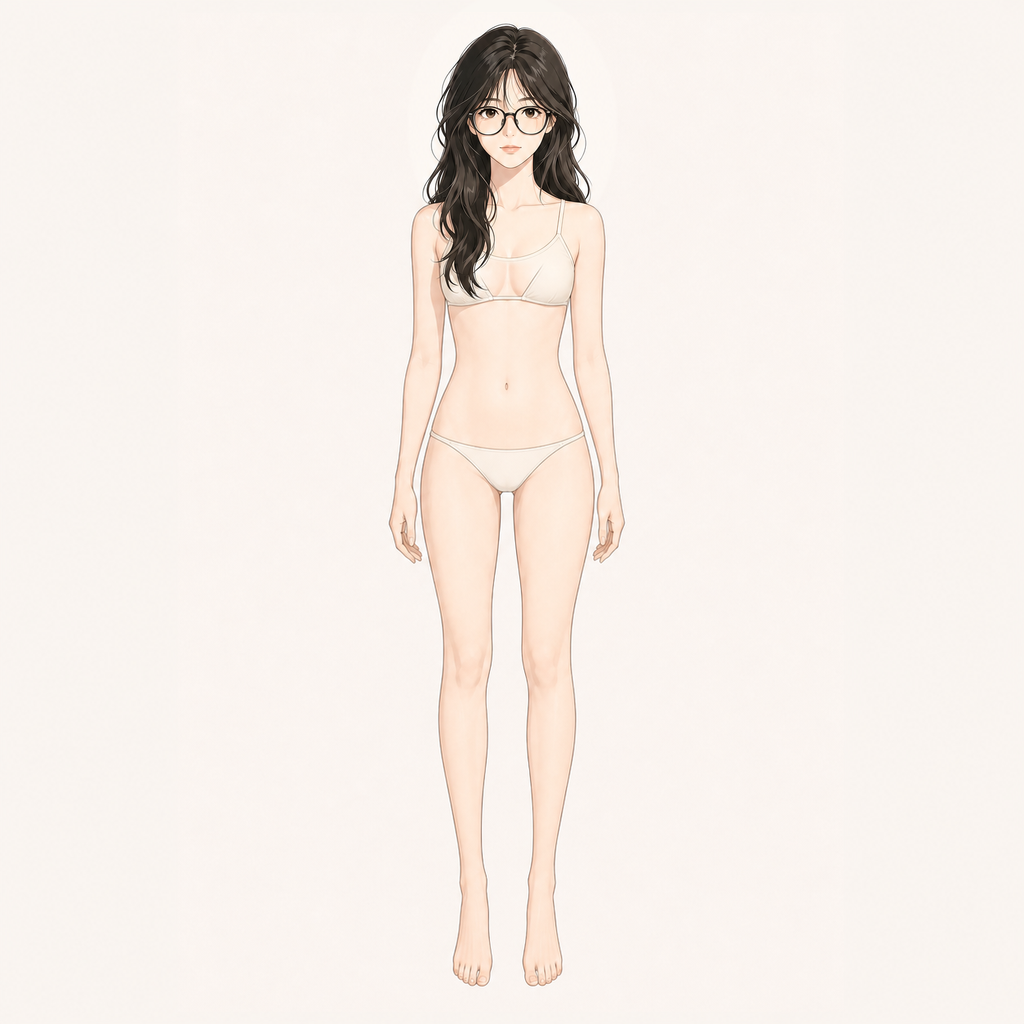
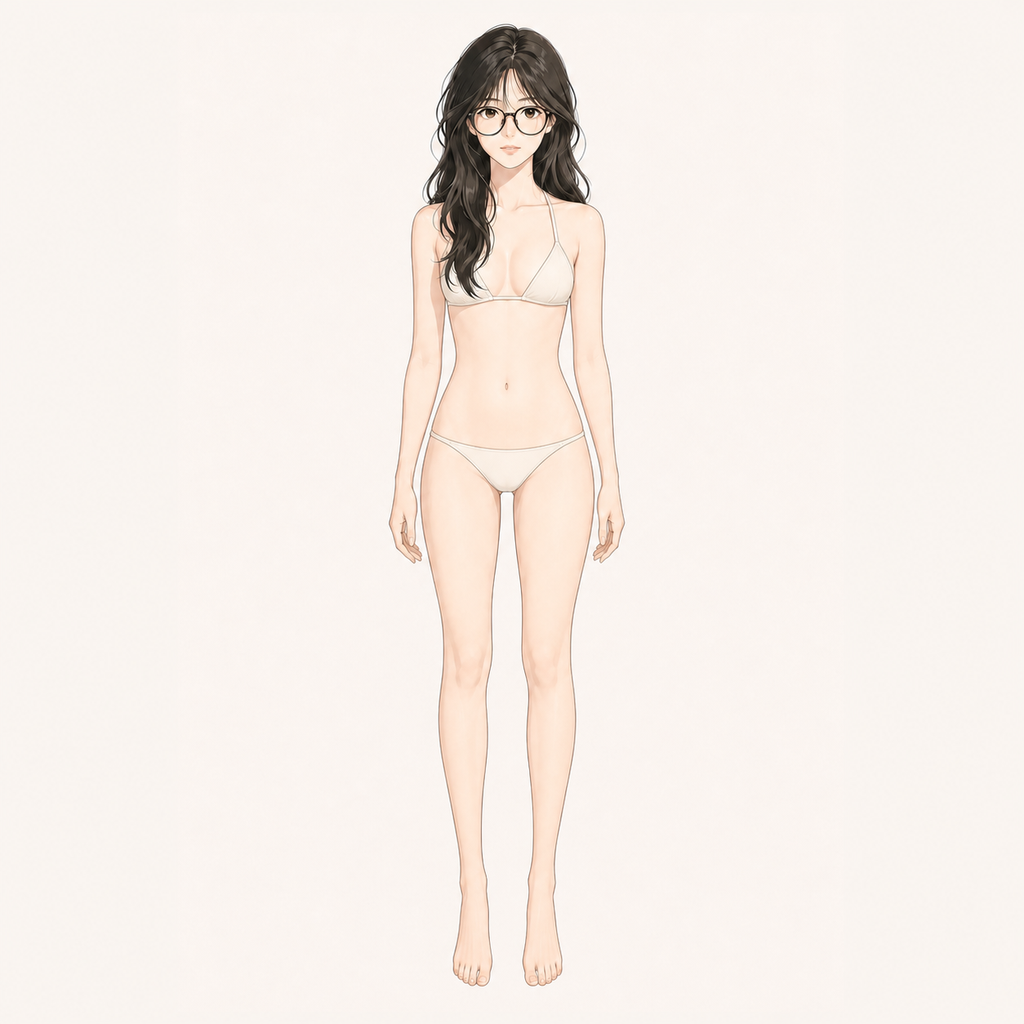
1

Changed region(s): [[0.4062, 0.0312, 0.5938, 0.2812]]

diff --git a/sw.js b/sw.js
@@ -2,7 +2,7 @@
 // 换上新文件——用一个固定的时间戳当版本号，比手动记得改数字更不容易漏掉。
 // 这个值本身不需要每次手动改：只要发布流程里有一步"替换成当前时间"就行；
 // 如果发布流程是纯手动复制文件，那还是需要发布前手动改一下这一行。
-const CACHE_NAME = "companion-shell-20260724-susie-identity-v45";
+const CACHE_NAME = "companion-shell-20260724-susie-master-v46";
 const SHELL_FILES = ["./index.html", "./app.js", "./memory.js", "./wardrobe/catalog.js", "./manifest.webmanifest", "./icon-leith-v2-192.png", "./icon-leith-v2-512.png"];
 
 self.addEventListener("install", (event) => {

diff --git a/wardrobe/catalog.js b/wardrobe/catalog.js
@@ -1,6 +1,6 @@
 window.LEITH_WARDROBE_CATALOG = {
-  "version": 9,
-  "generatedAt": "2026-07-24T16:05:00+0800",
+  "version": 10,
+  "generatedAt": "2026-07-24T21:45:00+0800",
   "base": {
     "id": "susie-studio-v2",
     "name": "Susie 比基尼换装基础人物",
